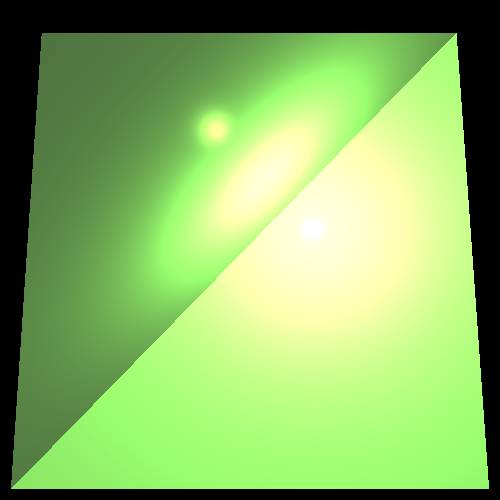
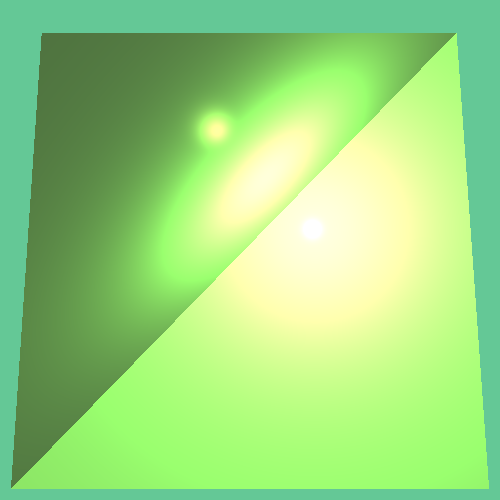
stage 7 -  part 2- fixing some of the bugs with coloring

Changed region(s): [[0.0, 0.0, 1.0, 1.0]]

diff --git a/src/renderer/RayTracerBasic.java b/src/renderer/RayTracerBasic.java
@@ -81,7 +81,7 @@ public class RayTracerBasic extends RayTracerBase {
         double nv = alignZero(n.dotProduct(v));
         if (nv == 0) return Color.BLACK;
         Material material = geoPoint.geometry.getMaterial();
-        Color color = Color.BLACK;
+        Color color = geoPoint.geometry.getEmission();
         for (LightSource lightSource : scene.getLights()) {
             Vector l = lightSource.getL(geoPoint.point);
             double nl = alignZero(n.dotProduct(l));
@@ -189,7 +189,7 @@ public class RayTracerBasic extends RayTracerBase {
         Vector lightDirection = l.scale(-1); // from point to light source
         Ray lightRay = new Ray(geoPoint.point, lightDirection,n);
         List<GeoPoint> intersections = scene.getGeometries().findGeoIntersections(lightRay,lightSource.getDistance(geoPoint.point));
-        if(intersections ==null)
+        if(intersections == null)
             return Double3.ONE;
         Double3 ktr = Double3.ONE;
         double distance =lightSource.getDistance(geoPoint.point);

diff --git a/unittests/lighting/LightsTests.java b/unittests/lighting/LightsTests.java
@@ -17,9 +17,11 @@ import scene.Scene;
  */
 public class LightsTests {
     private final Scene scene1 = new Scene.SceneBuilder("Test scene")
+            .setBackground(new Color(100,200,140))
             .build();
     private final Scene scene2 = new Scene.SceneBuilder("Test scene")
             .setAmbientLight(new AmbientLight(new Color(WHITE), new Double3(0.15)))
+            .setBackground(new Color(100,200,150))
             .build();
 
     private final Camera camera1 = new Camera(new Point(0, 0, 1000),

diff --git a/src/primitives/Ray.java b/src/primitives/Ray.java
@@ -40,7 +40,7 @@ public class Ray {
         double nd = normal.dotProduct(direction);
         Vector epsVector = normal.scale( nd >= 0 ? DELTA : - DELTA);
         p0 = head.add(epsVector);
-        dir = direction;
+        dir = direction.normalize();
     }
 
     @Override
